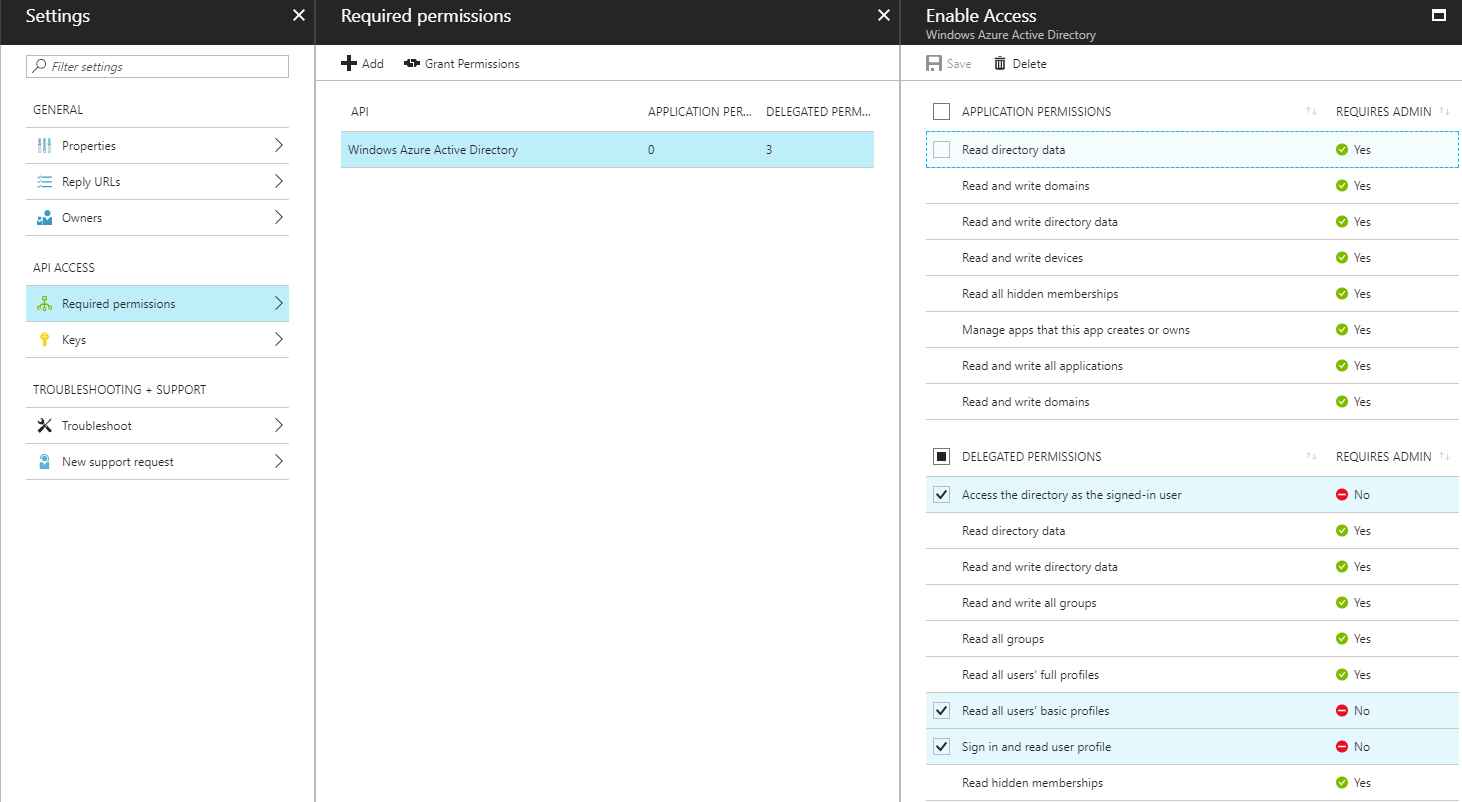
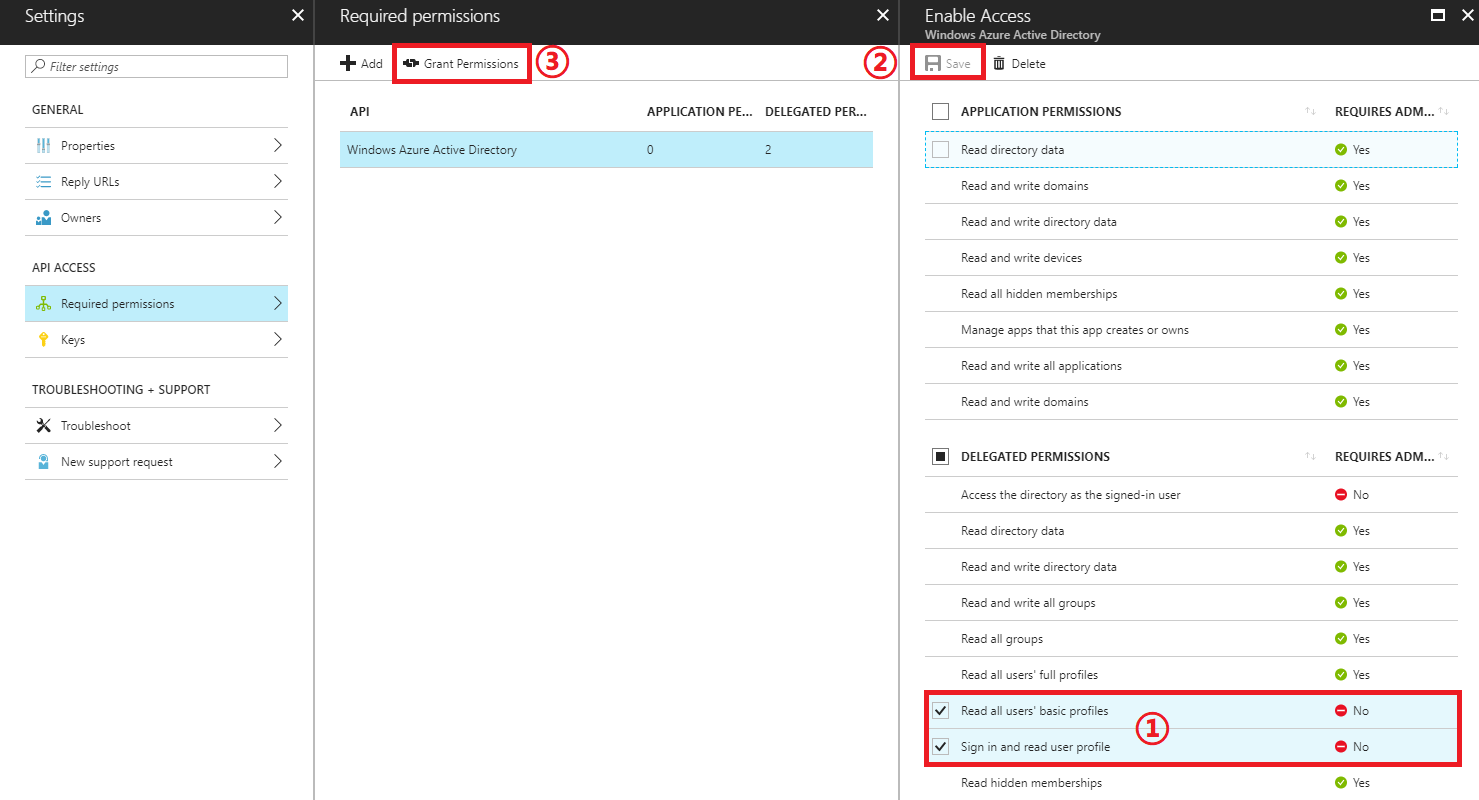
AAD should grant and give only two access (#37)

diff --git a/README.md b/README.md
@@ -21,7 +21,7 @@ This repository contains tools and helm charts to help deploy the [ELK stack](ht
 
     After the successful creation, note the `Application ID`, `Password` and `Tenant ID`.
 
-1. Grant your Service Principal access: Go to your `Service princial`-> `Settings` ->  `Required permissions`, tick `Access the directory as the signed-in user`, `Read all users' basic profiles` and `Sign in and read user profile`. Click `Save`.
+1. Grant your Service Principal access: Go to your `Service princial`-> `Settings` ->  `Required permissions`, tick `Read all users' basic profiles` and `Sign in and read user profile`. Click `Save`. Click `Grant Permissions` and click `yes`.
 
    ![Add Azure Service Principal access](image/elk-acs-kube-aad-access.png)
 
